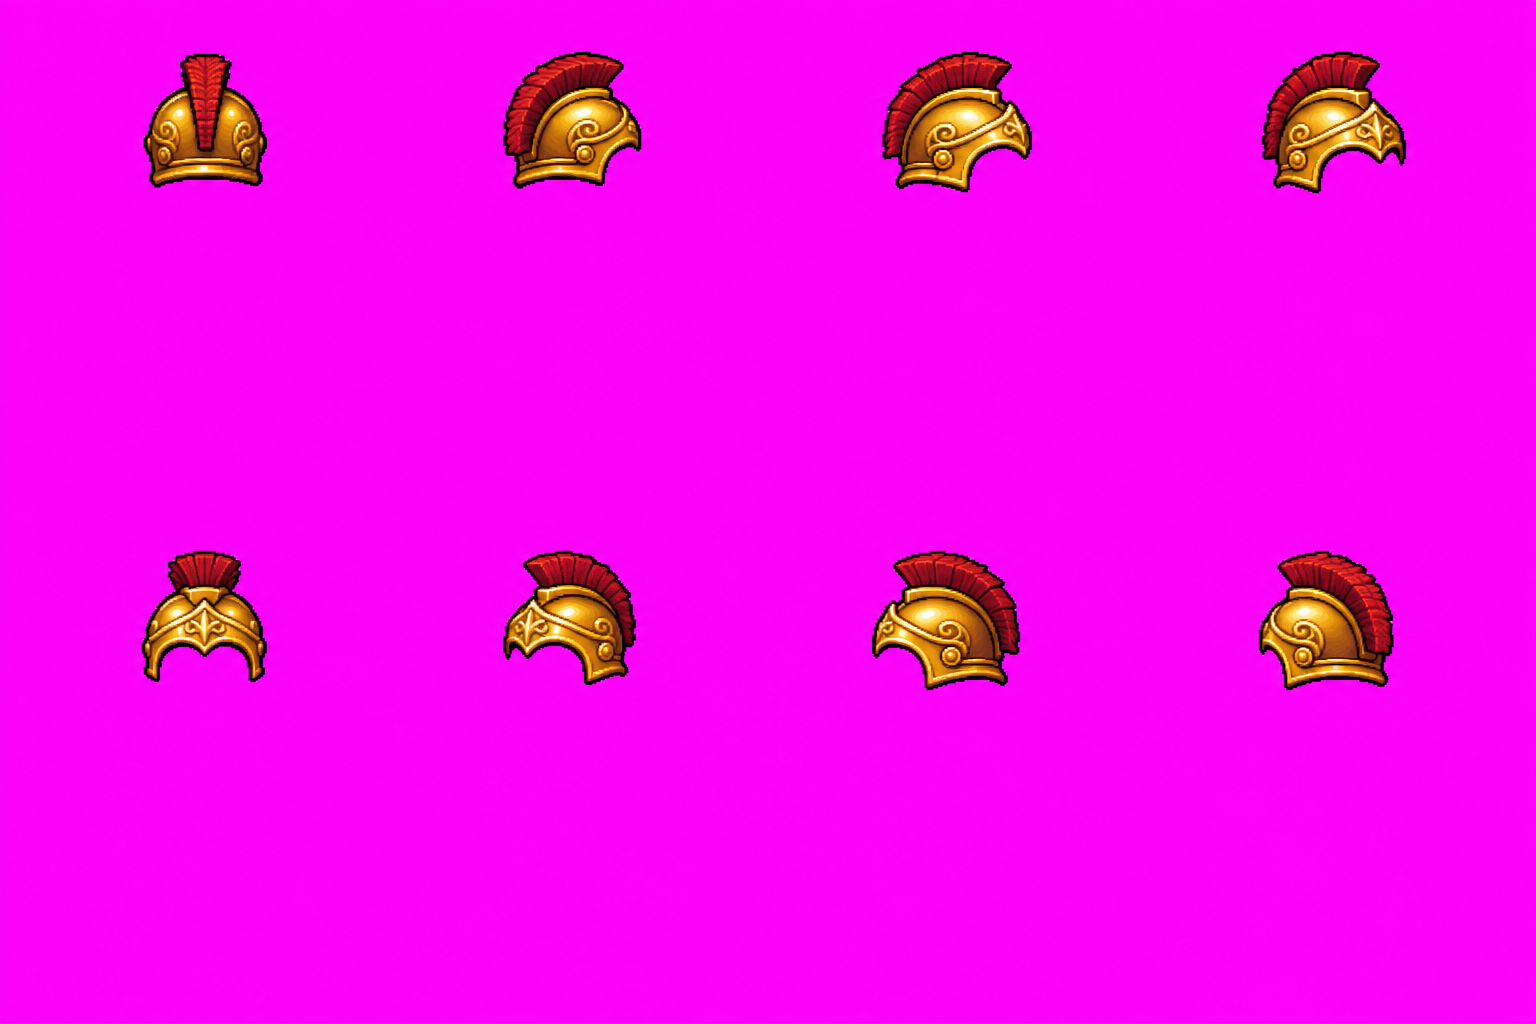
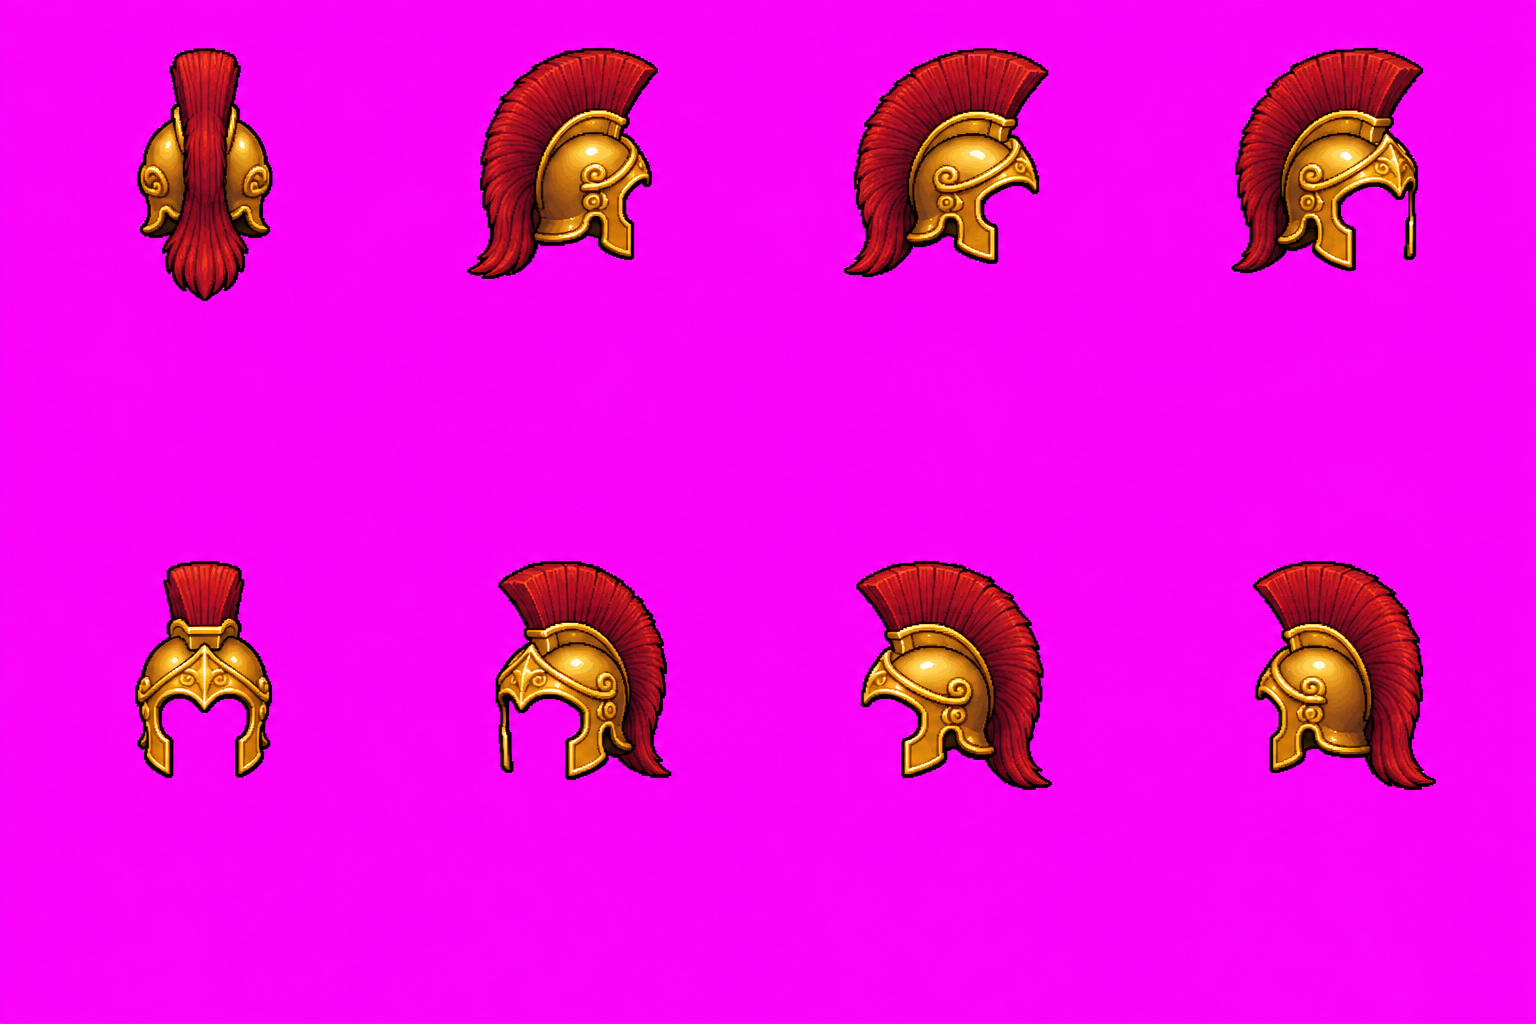
feat : 투구를 01번 시안식 코린토스 투구로 교체함 — Codex로 볼 보호대·이마 장식·뒤로 흐르는 긴 볏이 있는 8방향 투구를 새로 받아(요청 글 helm/prompt3.txt) 머리 전체를 덮고 얼굴만 열리게 함, gen_hero.py는 볏을 뺀 금속 부분(metal_box)으로 머리에 맞추고 GEAR_FIT(0.9배·위로 0.17)으로 눈썹 위에 오게 하며 앞쪽 자르기(CUT_GEARS)는 끔, helm·king 시트와 포트레이트 재생성, OUTFIT.md 반영, 투구 옷 봇 통과(왕 옷 봇은 확인 중)

diff --git a/godot/tools/gen_hero.py b/godot/tools/gen_hero.py
@@ -75,18 +75,32 @@ GEAR = {
 }
 GEAR_CUT = 0.172   # 투구: 앞쪽 방향은 앞 테두리를 머리 맨 위에서 키의 이만큼 아래까지만 남겨 눈·수염이 가려지지 않게
 GEAR_CUT_ARC = 0.008   # 자른 선을 가운데가 처지는 호로(키 비율) — 직선이 티 나지 않게
-CUT_GEARS = ("helm",)
+CUT_GEARS = ()   # 01번식 투구는 얼굴이 이미 열려 있어 자르지 않는다
 GEAR_TINT = {"hood": (1.08, 0.94, 0.74)}   # 받은 두건이 보랏빛이라 갈색 쪽으로
 BACK_DIRS = (5, 6, 7)
 # 투구 방향별 맞춤: 방향 → (크기 배율, 위로 올리는 양(머리 폭 비율)). 뒤쪽은 머리카락이 투구 위로 삐져나오지 않게 키우고 올린다
-GEAR_FIT = {0: (1.06, 0.04), 1: (1.06, 0.04), 2: (1.06, 0.04), 3: (1.06, 0.04), 4: (1.06, 0.04),
-            5: (1.05, 0.07), 6: (1.05, 0.07), 7: (1.05, 0.07)}
+GEAR_FIT = {d: (0.9, 0.17) for d in range(8)}
 
 
 def head_box(cell):
     bb = cell.getbbox()
     head = cell.crop((0, bb[1], cell.width, bb[1] + int((bb[3] - bb[1]) * 0.15))).getbbox()
     return bb, head
+
+
+METAL_GEARS = ("helm",)
+
+
+def metal_box(cell):
+    """장비 칸에서 금속(금색) 픽셀만의 바깥 상자 — 붉은 볏은 빼고 잰다."""
+    mask = Image.new("L", cell.size, 0)
+    mp, cp = mask.load(), cell.load()
+    for y in range(cell.height):
+        for x in range(cell.width):
+            r, g, b, a = cp[x, y]
+            if a > 200 and r > 140 and g > 90 and b < 120 and g > r * 0.45:
+                mp[x, y] = 255
+    return mask.getbbox()
 
 
 def load_gear(root, gear, body):
@@ -110,6 +124,9 @@ def load_gear(root, gear, body):
                 for y in range(y0, cell.height):
                     cell.putpixel((x, y), (0, 0, 0, 0))
         out[d] = (cell, hx, bb[1], head[2] - head[0])
+        if gear in METAL_GEARS:  # 볏이 맨 위라 맨 윗선 대신 금속 부분(투구 몸통)의 위·가운데·폭으로 맞춘다
+            m = metal_box(cell)
+            out[d] = (cell, (m[0] + m[2]) / 2, m[1], m[2] - m[0])
     return out
 
 

diff --git a/godot/docs/sprite_request/OUTFIT.md b/godot/docs/sprite_request/OUTFIT.md
@@ -11,7 +11,7 @@
   - **머리 장식**: 방향당 한 장, 프레임마다 머리 위치에 붙인다
   - **망토**: 방향당 정지 그림 한 장, 코드로 흔들림. 북·북동·북서는 몸 앞, 나머지는 몸 뒤
 - 몸 옷 3벌: 전투 갑옷(챕터 1·3·4), 항해복(2·5), 거지 변장(6)
-- 머리 장식 기본 짝: 갑옷 = 이마 위로 올린 코린트 투구(볏은 머리 하나 높이 이하), 항해복 = 청동 머리띠, 거지 = 뒤로 젖힌 두건
+- 머리 장식 기본 짝: 갑옷 = 머리 전체를 감싸는 코린트 투구(볼 보호대·긴 볏, 01번 시안), 항해복 = 청동 머리띠, 거지 = 뒤로 젖힌 두건
 - 레이어 위치는 몸 그림에서 머리·어깨를 자동으로 찾고, 틀린 프레임·회전 베기 프레임만 표로 고친다
 - 부위 그림은 회색(#808080) 몸 실루엣 위에 그 부위만 그려 받고, 스크립트가 회색·마젠타를 지운다
 - 적용: 이름 규칙대로 `assets/source/`에 두고 `python3 tools/gen_hero.py .` → 챕터 스크립트에 `outfit = {body, head, cape}`
@@ -40,10 +40,10 @@
 (공격 손 점 표 ATTACK_HANDS는 전투 갑옷용이라 다른 옷의 공격 그림은 표를 따로 찍어야 한다). 요청 글·받은 그림은 `outfit_requests/`.
 투구는 **장비 겹치기**(`GEAR`)로 입힌다: 기본 8방향과 같은 칸 배치로 투구만 마젠타 위에 그린 `assets/source/odysseus_helm_gear.webp`를 두고
 `python3 tools/gen_hero.py . odysseus_helm`(= 전투 갑옷 몸 + 투구)을 돌리면, 스크립트가 프레임마다 머리 위치·폭을 찾아 투구를 얹는다(걷기·달리기·공격 줄 포함).
-앞쪽 방향은 투구 앞 테두리를 `GEAR_CUT`에서 잘라 눈·수염을 살린다(받은 투구가 얼굴을 덮어서). 요청 글은 `outfit_requests/helm/prompt2.txt`
-(처음 요청은 얼굴을 덮는 투구가 왔다 — "이마 위로 올린 모자처럼, 앞 테두리가 눈썹 위, 코·볼 가리개 없음, 볏은 낮게"를 넣어 다시 받음). 
+투구는 01번 시안식(머리를 덮고 얼굴만 열림)이라 자르지 않고, 볏을 뺀 금속 부분의 위·가운데·폭(`metal_box`)을 머리에 맞춘 뒤 `GEAR_FIT`(0.9배, 머리 폭의 0.17만큼 위로)으로 앞 테두리가 눈썹 위에 오게 한다. 요청 글은 `outfit_requests/helm/prompt3.txt`
+(옛 요청 prompt·prompt2는 이마 위 모자형이라 머리카락이 삐져나와 폐기, 옛 그림 `helm_gear_old.webp`).
 망토·두건도 같은 방식(`cape`·`hood` 장비, 방식 "cape" = 북·북동·북서에서만 몸 위, 나머지는 몸 뒤): `odysseus_king`(갑옷+망토+투구), `odysseus_beggar_hood`(거지 변장+두건).
-항해복은 머리띠가 몸 그림에 이미 그려져 있어 따로 받지 않았다. 투구 앞 테두리는 자른 선이 티 나지 않게 살짝 호(`GEAR_CUT_ARC`)로 잘랐다.
+항해복은 머리띠가 몸 그림에 이미 그려져 있어 따로 받지 않았다. 망토·두건은 자르지 않는다.
 챕터별 기본 옷은 `Game.CHAPTER_OUTFITS`(1·3·4 king, 2·5 sea, 6 beggar_hood — 지금은 챕터 1만 있음), `--outfit=`으로 고르면 챕터가 바꾸지 않는다.
 거지 변장 옷은 `Game.UNARMED_OUTFITS`라 칼·방패를 그리지 않는다(변장 중 무기를 감춘 것처럼). 망토·두건은 흔들리지 않는 정지 그림이다.
 
